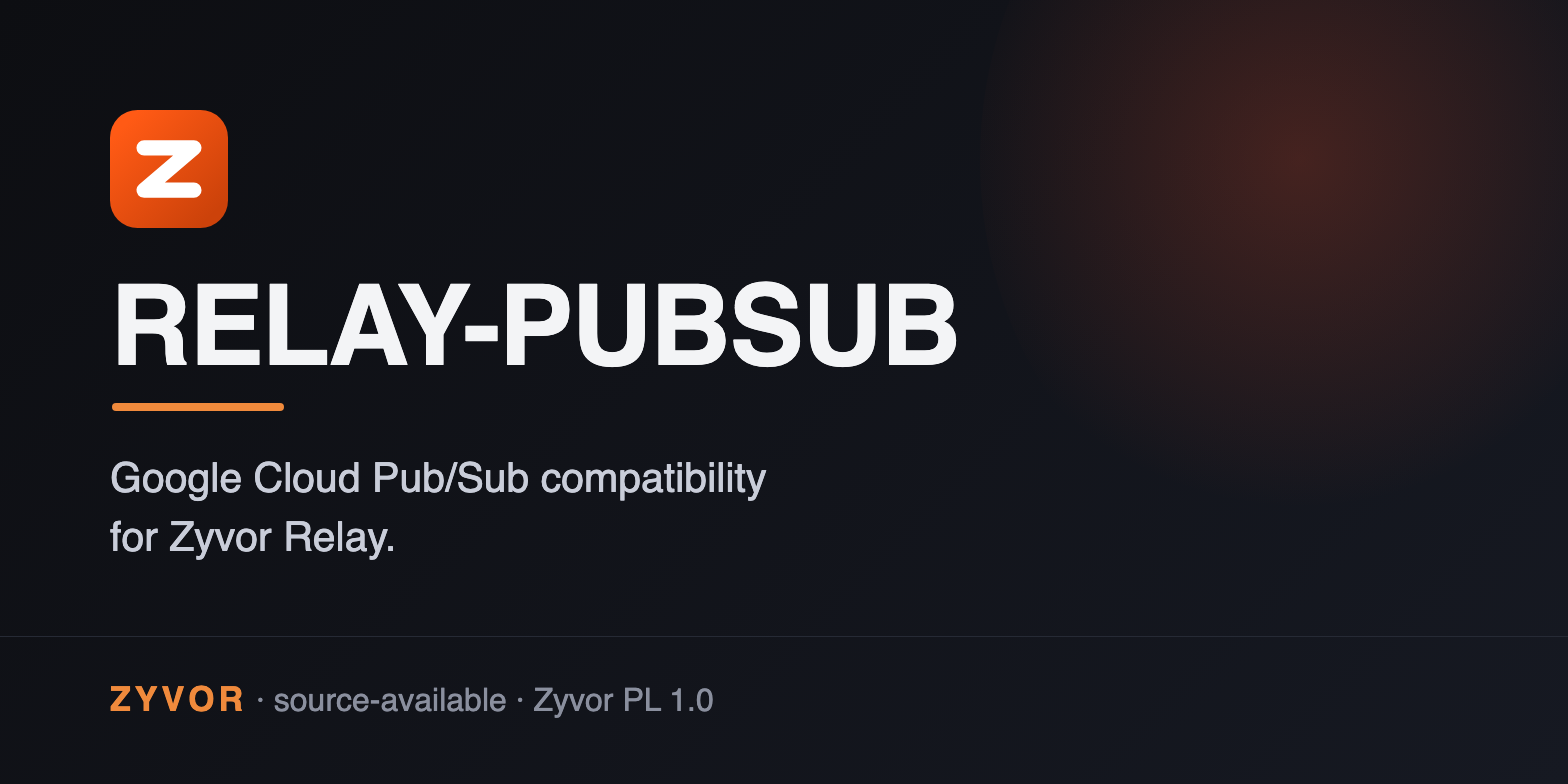
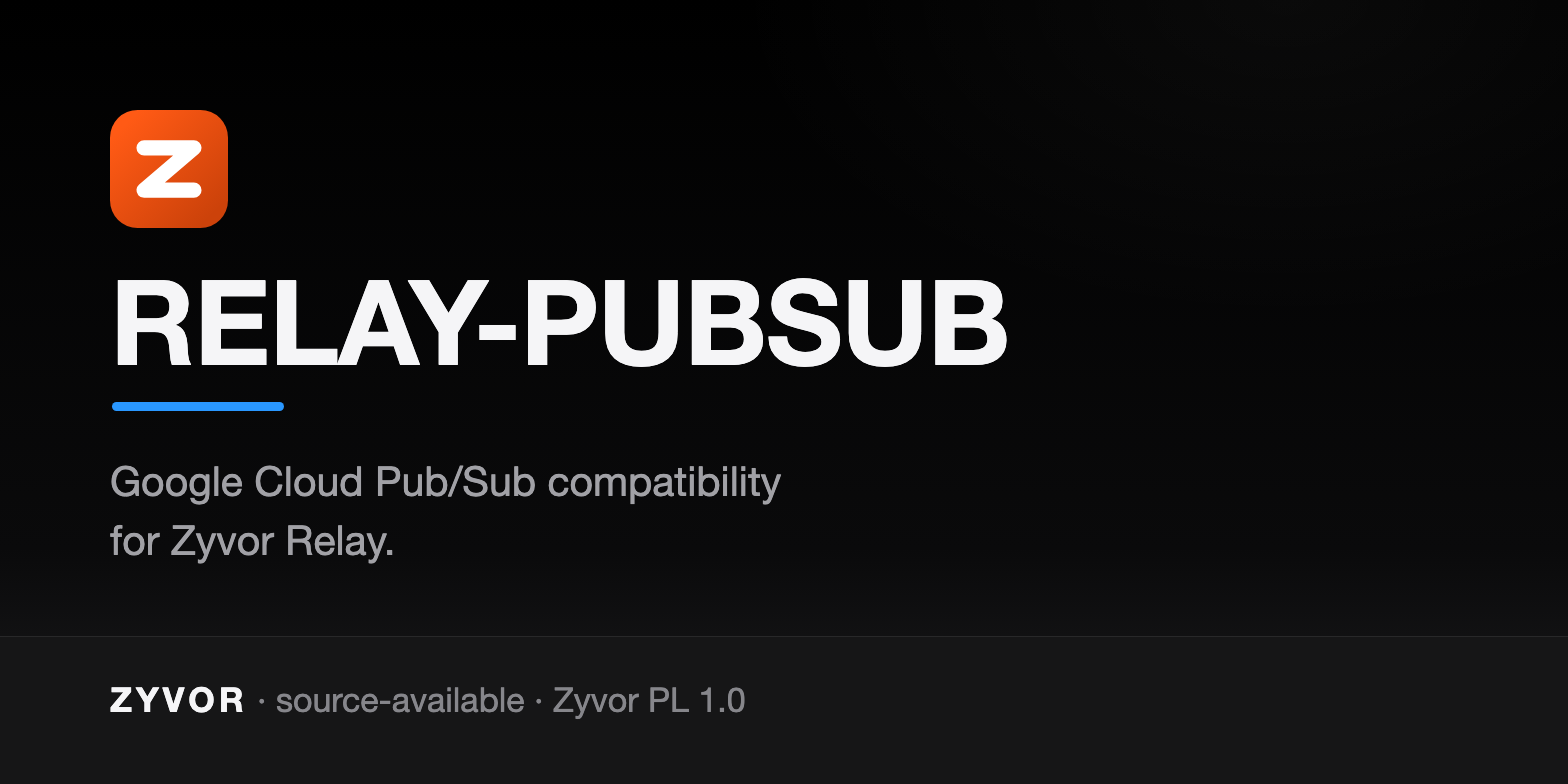
docs: remove community tier, apple-dark social cards

diff --git a/docs/social/relay-pubsub-social-card.html b/docs/social/relay-pubsub-social-card.html
@@ -9,12 +9,12 @@
   Build:  ./docs/social/build-social-card.sh   ->  relay-pubsub-social-card.jpg
 -->
 <style>
-  :root { --ink:#0d0d0c; --soft:#5a544c; --signal:#ff5a15; --deep:#cc420a; --line:#e7ded2; --warm:#fbf7f2; --pale:#fff1e9;
-    --blue:#2b5fd9; --green:#1f7a4d;
+  :root { --ink:#f5f5f7; --soft:#86868b; --signal:#2997ff; --btn:#0071e3; --deep:#2997ff; --line:rgba(255,255,255,.08); --warm:#000; --pale:#1d1d1f;
+    --blue:#5e5ce6; --green:#248a3d;
     --sans:'Helvetica Neue',Helvetica,Arial,sans-serif; --mono:'SF Mono',Menlo,Consolas,monospace; }
   * { box-sizing:border-box; }
   html,body { margin:0; padding:0; }
-  body { width:1600px; height:900px; overflow:hidden; background:var(--warm); color:var(--ink); font-family:var(--sans); position:relative; }
+  body { width:1600px; height:900px; overflow:hidden; background:radial-gradient(900px 520px at 78% 0%,rgba(255,255,255,.04),transparent 62%),#000; color:var(--ink); font-family:var(--sans); position:relative; }
   .bar { position:absolute; left:0; top:0; bottom:0; width:14px; background:var(--signal); }
   .wrap { position:absolute; left:72px; right:64px; top:48px; bottom:40px; display:flex; flex-direction:column; }
 
@@ -25,10 +25,10 @@
 
   h1 { margin:26px 0 0; font-size:64px; line-height:1.06; letter-spacing:-.025em; font-weight:700; max-width:1440px; }
   h1 em { font-style:normal; color:var(--signal); }
-  .sub { margin:16px 0 0; font-size:27px; line-height:1.36; color:#26231f; max-width:1320px; }
+  .sub { margin:16px 0 0; font-size:27px; line-height:1.36; color:#a1a1a6; max-width:1320px; }
 
   .flow { margin-top:34px; display:grid; grid-template-columns:repeat(5,1fr); gap:34px; }
-  .step { position:relative; background:#fff; border:2.5px solid var(--c); border-radius:16px; padding:18px 20px 18px 24px; min-height:222px; }
+  .step { position:relative; background:#1d1d1f; border:2.5px solid var(--c); border-radius:16px; padding:18px 20px 18px 24px; min-height:222px; }
   .step::before { content:""; position:absolute; left:0; top:0; bottom:0; width:9px; background:var(--c); border-radius:13px 0 0 13px; }
   .step:not(:last-child)::after { content:""; position:absolute; right:-31px; top:50%; width:0; height:0; margin-top:-11px;
     border-left:16px solid var(--soft); border-top:11px solid transparent; border-bottom:11px solid transparent; }
@@ -36,17 +36,17 @@
   .n { float:right; width:34px; height:34px; border-radius:50%; background:var(--c); color:#fff; font-weight:700; font-size:19px; line-height:34px; text-align:center; }
   .step h3 { margin:14px 0 8px; font-size:27px; line-height:1.14; letter-spacing:-.01em; }
   .step p { margin:0; font-size:20.5px; line-height:1.34; color:var(--soft); }
-  .k { --c:var(--signal); } .a { --c:var(--ink); } .c { --c:var(--blue); } .o { --c:var(--green); } .o2 { --c:var(--deep); }
+  .k { --c:var(--btn); } .a { --c:#86868b; } .c { --c:var(--blue); } .o { --c:var(--green); } .o2 { --c:var(--deep); }
 
-  .attr { margin-top:22px; display:flex; align-items:center; gap:16px; background:var(--ink); color:#f3ede4; border-radius:12px; padding:13px 22px; font-family:var(--mono); font-size:22px; white-space:nowrap; }
+  .attr { margin-top:22px; display:flex; align-items:center; gap:16px; background:#1d1d1f; border:1px solid rgba(255,255,255,.08); color:#f5f5f7; border-radius:12px; padding:13px 22px; font-family:var(--mono); font-size:22px; white-space:nowrap; }
   .attr .tag { color:var(--signal); font-weight:700; letter-spacing:.1em; font-size:16px; }
-  .attr .why { margin-left:auto; color:#a39a8d; font-size:15px; letter-spacing:.06em; text-transform:uppercase; }
+  .attr .why { margin-left:auto; color:#86868b; font-size:15px; letter-spacing:.06em; text-transform:uppercase; }
 
   .chips { margin-top:auto; padding-top:22px; display:flex; flex-wrap:wrap; gap:10px; }
-  .chip { font-size:20px; font-weight:700; padding:5px 14px; border-radius:20px; background:var(--signal); color:#fff; letter-spacing:.02em; border:2px solid var(--signal); }
-  .chip.g { background:#fff; color:var(--deep); border:2px solid var(--signal); }
+  .chip { font-size:20px; font-weight:700; padding:5px 14px; border-radius:20px; background:var(--btn); color:#fff; letter-spacing:.02em; border:2px solid var(--btn); }
+  .chip.g { background:#1d1d1f; color:var(--deep); border:2px solid var(--signal); }
 
-  .foot { margin-top:18px; padding-top:14px; border-top:3px solid var(--ink); display:flex; align-items:center; font-family:var(--mono); font-size:22px; color:var(--soft); }
+  .foot { margin-top:18px; padding-top:14px; border-top:1px solid rgba(255,255,255,.12); display:flex; align-items:center; font-family:var(--mono); font-size:22px; color:var(--soft); }
   .foot b { color:var(--ink); }
   .foot .r { margin-left:auto; }
 </style>

diff --git a/docs/social/relay-pubsub-share-card.html b/docs/social/relay-pubsub-share-card.html
@@ -8,11 +8,11 @@
   Build:  ./docs/social/build-social-card.sh
 -->
 <style>
-  :root { --ink:#0d0d0c; --soft:#5a544c; --signal:#ff5a15; --deep:#cc420a; --warm:#fbf7f2;
+  :root { --ink:#f5f5f7; --soft:#86868b; --signal:#2997ff; --btn:#0071e3; --deep:#2997ff; --warm:#000;
     --sans:'Helvetica Neue',Helvetica,Arial,sans-serif; --mono:'SF Mono',Menlo,Consolas,monospace; }
   * { box-sizing:border-box; }
   html,body { margin:0; padding:0; }
-  body { width:1200px; height:630px; overflow:hidden; background:var(--warm); color:var(--ink); font-family:var(--sans); position:relative; }
+  body { width:1200px; height:630px; overflow:hidden; background:radial-gradient(900px 520px at 78% 0%,rgba(255,255,255,.04),transparent 62%),#000; color:var(--ink); font-family:var(--sans); position:relative; }
   .bar { position:absolute; left:0; top:0; bottom:0; width:12px; background:var(--signal); }
   .wrap { position:absolute; left:56px; right:48px; top:40px; bottom:36px; display:flex; flex-direction:column; }
 
@@ -23,13 +23,13 @@
 
   h1 { margin:36px 0 0; font-size:48px; line-height:1.08; letter-spacing:-.025em; font-weight:700; max-width:1080px; }
   h1 em { font-style:normal; color:var(--signal); }
-  .sub { margin:18px 0 0; font-size:24px; line-height:1.4; color:#26231f; max-width:980px; }
+  .sub { margin:18px 0 0; font-size:24px; line-height:1.4; color:#a1a1a6; max-width:980px; }
 
   .chips { margin-top:auto; display:flex; flex-wrap:wrap; gap:10px; padding-bottom:18px; }
-  .chip { font-size:18px; font-weight:700; padding:6px 14px; border-radius:20px; background:var(--signal); color:#fff; border:2px solid var(--signal); }
-  .chip.g { background:#fff; color:var(--deep); border:2px solid var(--signal); }
+  .chip { font-size:18px; font-weight:700; padding:6px 14px; border-radius:20px; background:var(--btn); color:#fff; border:2px solid var(--btn); }
+  .chip.g { background:#1d1d1f; color:var(--deep); border:2px solid var(--signal); }
 
-  .foot { padding-top:14px; border-top:3px solid var(--ink); display:flex; align-items:center; font-family:var(--mono); font-size:20px; color:var(--soft); }
+  .foot { padding-top:14px; border-top:1px solid rgba(255,255,255,.12); display:flex; align-items:center; font-family:var(--mono); font-size:20px; color:var(--soft); }
   .foot b { color:var(--ink); }
   .foot .r { margin-left:auto; }
 </style>

diff --git a/docs/social/relay-pubsub-preview.html b/docs/social/relay-pubsub-preview.html
@@ -1,0 +1,21 @@
+<!doctype html>
+<html lang="en"><head><meta charset="utf-8"><title>RELAY-PUBSUB social preview</title>
+<style>
+* { box-sizing:border-box; }
+html,body { margin:0; padding:0; }
+body { width:1568px; height:784px; overflow:hidden; position:relative; color:#f5f5f7;
+  font-family:'Helvetica Neue',Helvetica,Arial,sans-serif;
+  background:radial-gradient(900px 520px at 82% 0%,rgba(255,255,255,.04),transparent 62%),linear-gradient(180deg,#000 0%,#0a0a0b 70%,#1d1d1f 100%); }
+.mark { position:absolute; left:110px; top:110px; width:118px; height:118px; }
+h1 { position:absolute; left:110px; top:262px; margin:0; font-size:118px; line-height:1; font-weight:700; letter-spacing:-.01em; }
+.rule { position:absolute; left:112px; top:402px; width:172px; height:9px; border-radius:5px; background:#2997ff; }
+p { position:absolute; left:110px; top:452px; margin:0; font-size:41px; line-height:59px; color:#a1a1a6; }
+.foot { position:absolute; left:0; right:0; bottom:0; height:148px; border-top:1px solid rgba(255,255,255,.08); background:#161617; }
+.foot div { position:absolute; left:110px; top:42px; font-size:34px; color:#86868b; }
+.foot b { color:#f5f5f7; letter-spacing:.12em; font-size:34px; }
+</style></head><body>
+<svg class="mark" viewBox="0 0 64 64" aria-hidden="true"><defs><linearGradient id="zb" x1="8" y1="8" x2="56" y2="56" gradientUnits="userSpaceOnUse"><stop offset="0" stop-color="#ff5a15"/><stop offset="1" stop-color="#cc420a"/></linearGradient></defs><rect width="64" height="64" rx="15" fill="url(#zb)"/><path d="M18.5,20.5 45.5,20.5 18.5,43.5 45.5,43.5" fill="none" stroke="#fff" stroke-width="8.3" stroke-linecap="round" stroke-linejoin="round"/></svg>
+<h1>RELAY-PUBSUB</h1><div class="rule"></div>
+<p>Google Cloud Pub/Sub compatibility<br>for Zyvor Relay.</p>
+<div class="foot"><div><b>ZYVOR</b> &middot; source-available &middot; Zyvor PL 1.0</div></div>
+</body></html>

diff --git a/docs/SUBSCRIPTION-MODEL.md b/docs/SUBSCRIPTION-MODEL.md
@@ -1,12 +1,11 @@
 # relay-pubsub: support subscriptions
 
-relay-pubsub is source-available software. Non-production use is free under the Zyvor Production License v1.0; production use requires a commercial license (sales@zyvor.dev).
+relay-pubsub is source-available software. A commercial license is required to run it (sales@zyvor.dev); a 30-day trial key is how to evaluate.
 
 Teams that want supported releases and defined response targets can buy an annual **support subscription** from Zyvor.
 
 | Plan | What you get | Coverage |
 |------|--------------|----------|
-| Community | The software, community documentation and public issue tracking | No contracted response target |
 | Standard | Deployment and upgrade guidance, defined supported configuration | Business hours |
 | Supported | Standard plus priority queue and incident triage | Business hours, faster response |
 | Enterprise | Supported plus a named technical contact and 24x7 critical intake | One-hour initial response target for critical issues |
@@ -28,7 +27,7 @@ Volume ladder on per-node list prices: 256-499 nodes -10%, 500-999 -15%, 1,000+ 
 
 Prices: INR incl. 18% GST in India; US dollars excl. tax elsewhere (VAT, GST or sales tax added where applicable). Pay online by UPI, card or netbanking where a buy page exists; international cards work (charged in rupees); or request a US-dollar invoice by bank transfer. Custom pricing: contact [sales@zyvor.dev](mailto:sales@zyvor.dev).
 
-Buy / get a quote: <https://zyvor.dev/buy>. A 30-day trial key is available for production licences; non-production use of the software stays free under the Zyvor Production License v1.0 ([30-day PoC](https://zyvor.dev/poc)).
+Buy / get a quote: <https://zyvor.dev/buy>. A 30-day trial key is available for production licences ([30-day PoC](https://zyvor.dev/poc)).
 
 ## Terms
 

diff --git a/README.md b/README.md
@@ -215,7 +215,7 @@ New here? [docs/FAQ.md](docs/FAQ.md) · troubleshooting in [docs/DEPLOYMENT.md](
 
 ## Support
 
-Non-production use is free under the Zyvor Production License v1.0; production use requires a commercial license (sales@zyvor.dev). If it helps you, you can donate any amount you like: <https://rzp.io/rzp/utwdYh3>. A donation is voluntary and supports development and maintenance. It is not a purchase: it buys no support, SLA, features, priority or license, and it is not tax-deductible (Zyvor AI Labs Private Limited is a company, not a charity). Support contracts are separate: [sales@zyvor.dev](mailto:sales@zyvor.dev).
+A commercial license is required to run it (sales@zyvor.dev); a 30-day trial key is how to evaluate. If it helps you, you can donate any amount you like: <https://rzp.io/rzp/utwdYh3>. A donation is voluntary and supports development and maintenance. It is not a purchase: it buys no support, SLA, features, priority or license, and it is not tax-deductible (Zyvor AI Labs Private Limited is a company, not a charity). Support contracts are separate: [sales@zyvor.dev](mailto:sales@zyvor.dev).
 
 ## License
 

diff --git a/docs/FAQ.md b/docs/FAQ.md
@@ -9,9 +9,8 @@ decided to adopt it.
 
 ## Licensing & cost
 
-**Is it really free?** Non-production use (evaluation, development, testing, research,
-education) is free under the Zyvor Production License v1.0. Production use
-requires a commercial license from Zyvor AI Labs (sales@zyvor.dev,
+**Do I need a license?** Yes. Running it requires a commercial
+license from Zyvor AI Labs (sales@zyvor.dev,
 https://zyvor.dev/buy; a 30-day trial key is available). Notices must be
 preserved. See the README's [License](https://github.com/zyvorai/relay-pubsub#license)
 section.
